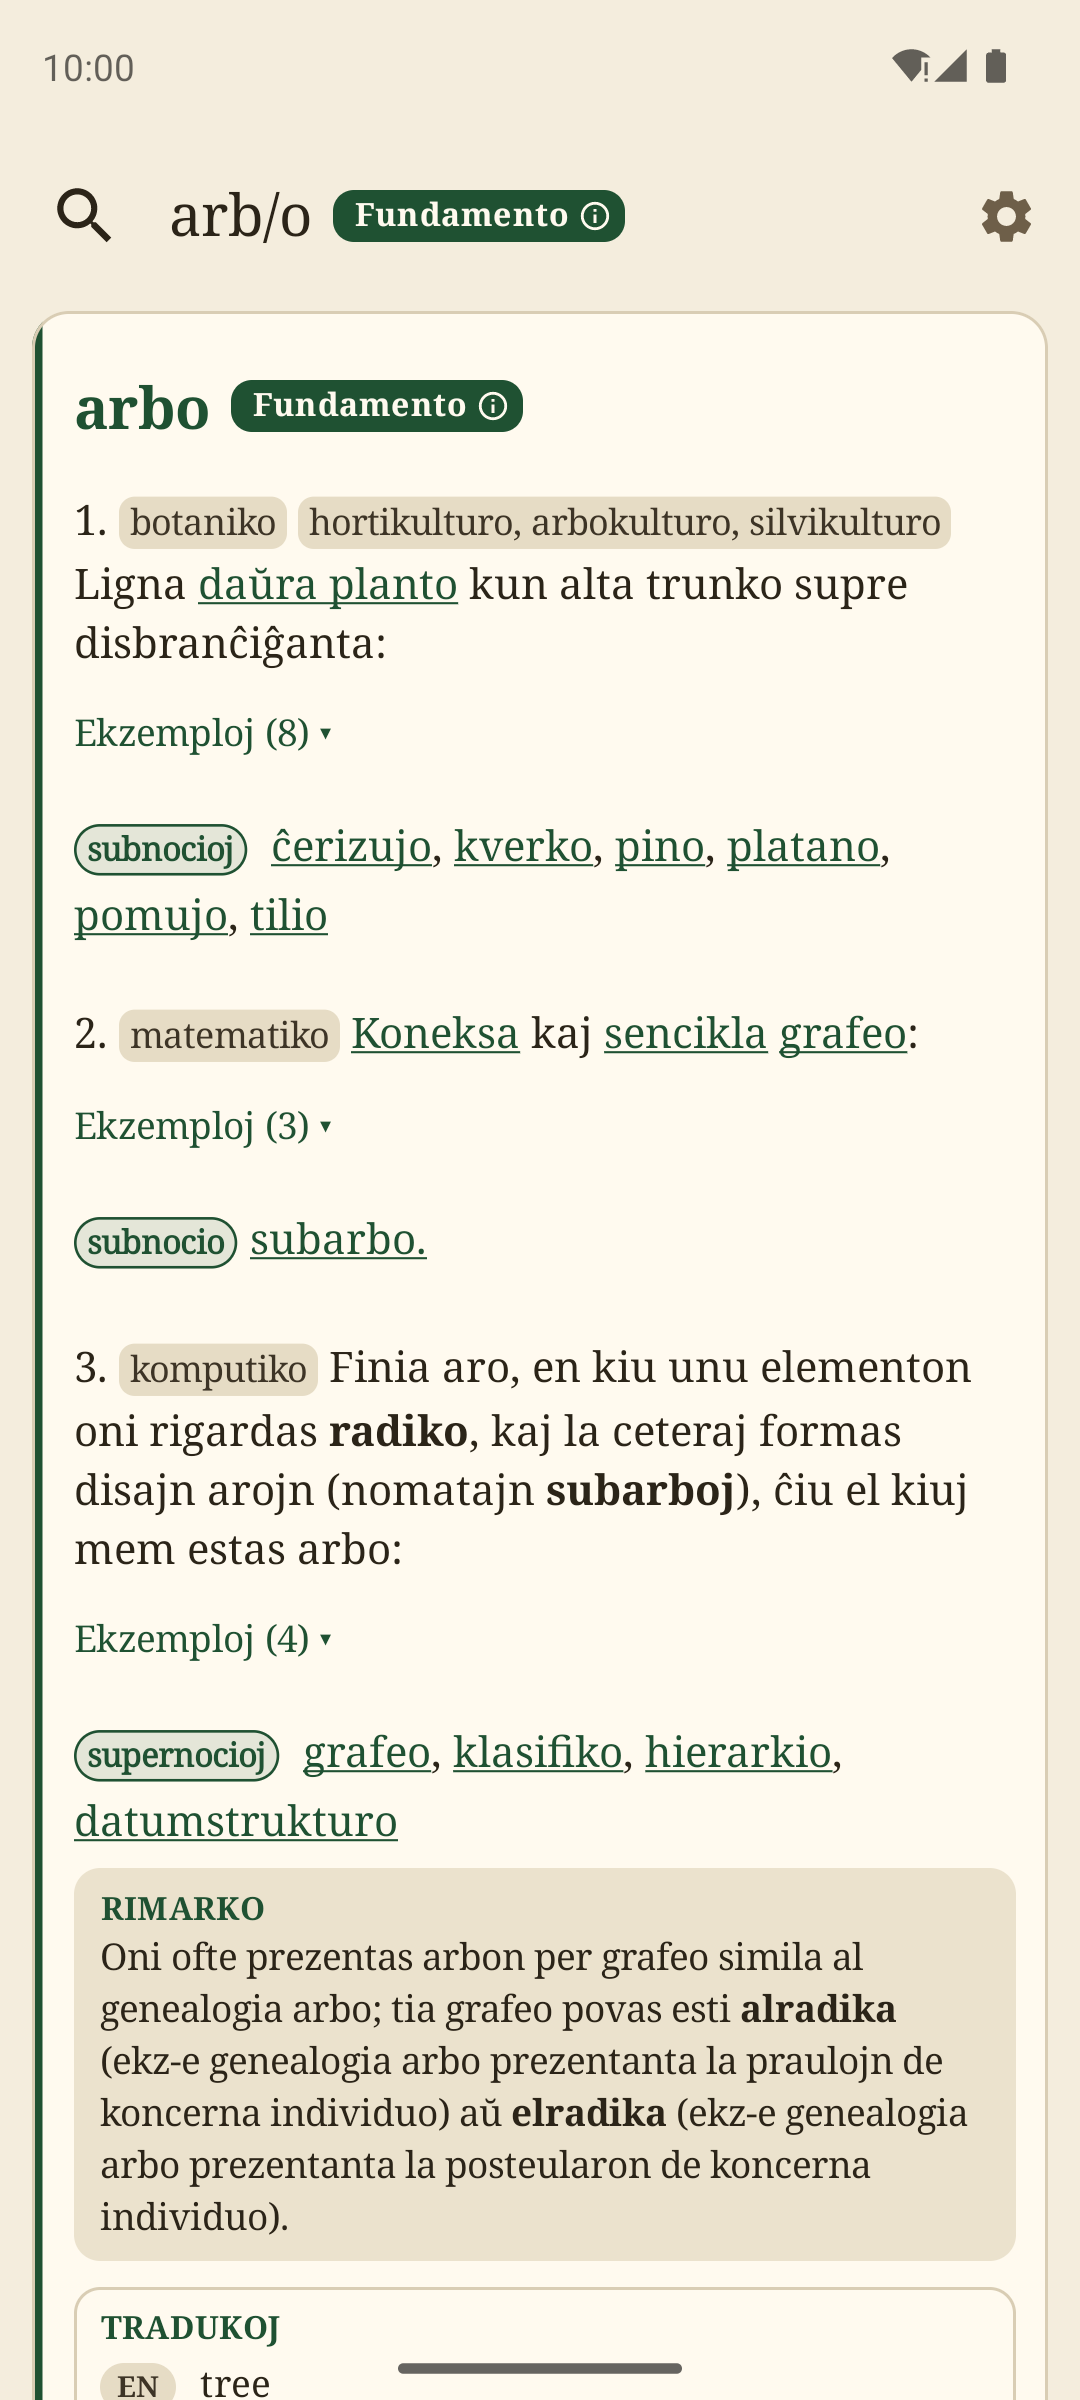
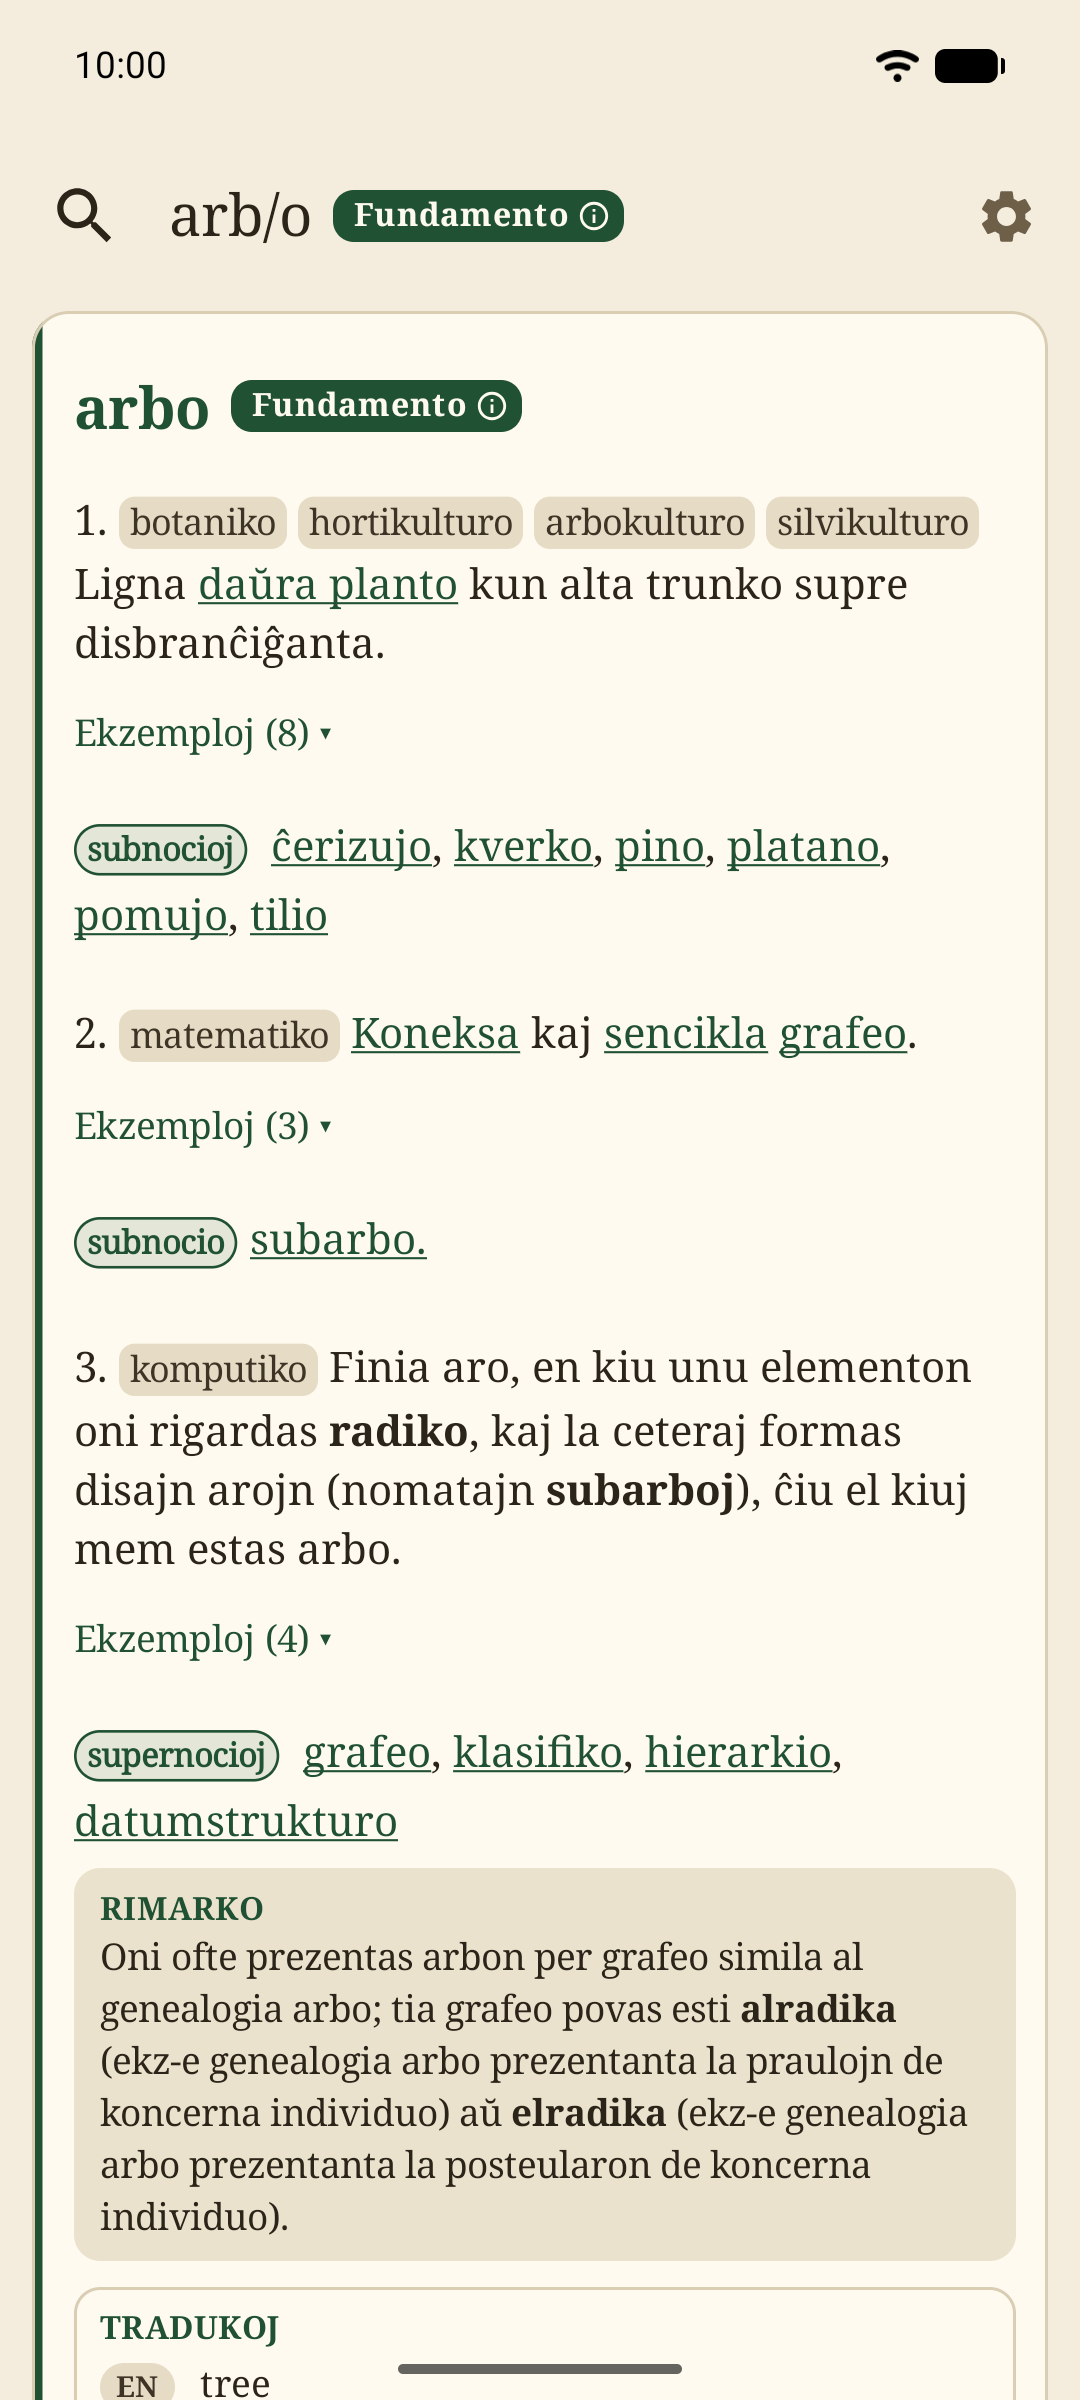
Take the store screenshots again, with the word analysis
The six screenshots dated from before 0.2: the settings in the search
field, a colon before the examples, an alphabet without its letters
with a hat. Taken again on the same scenes, and a seventh for the
analysis of a word missing from the dictionary (malsanulejestrano).
The README shows it, and mentions the guessing of missing words.

diff --git a/README.md b/README.md
@@ -22,6 +22,7 @@
   <img src="fastlane/metadata/android/en-US/images/phoneScreenshots/4.png" width="200" alt="La listo de Oficiala Aldono">
   <img src="fastlane/metadata/android/en-US/images/phoneScreenshots/5.png" width="200" alt="Teni vorton premita">
   <img src="fastlane/metadata/android/en-US/images/phoneScreenshots/6.png" width="200" alt="Foliumi la vortaron, nokte">
+  <img src="fastlane/metadata/android/en-US/images/phoneScreenshots/7.png" width="200" alt="Vorto, kiu mankas en la vortaro">
 </p>
 
 ---
@@ -48,6 +49,9 @@ el [PReVo](https://github.com/bpeel/prevo), la vortaro de Neil Roberts.
   skribita: *arbojn* trovas *arbo*, *nomatajn* trovas *nomi*.
 - **Foliumi la vortaron** de radiko al radiko, kiel presitan vortaron, aŭ
   malkovri hazardan radikon.
+- **Diveni vortojn, kiuj mankas** en la vortaro: la serĉo proponas, el kiuj
+  radikoj kaj afiksoj ili eble konsistas (*malsanulejestrano*: malsanulej +
+  estr + ano).
 - La **lastaj serĉoj**, tagaj kaj noktaj koloroj („papero“ kaj „stelnokto“), la
   grandeco de la teksto, kaj gvidilo en la agordoj.
 
@@ -127,6 +131,9 @@ Neil Roberts' dictionary.
   *nomatajn* finds *nomi*.
 - **Leaf through the dictionary** from root to root, like a printed one, or
   discover a random root.
+- **Guess missing words**: when a word isn't in the dictionary, the search
+  suggests the roots and affixes it may be built from (*malsanulejestrano*:
+  malsanulej + estr + ano).
 - **Recent searches**, day and night colours ("papero" and "stelnokto"), text
   size, and a guide in the settings.
 
